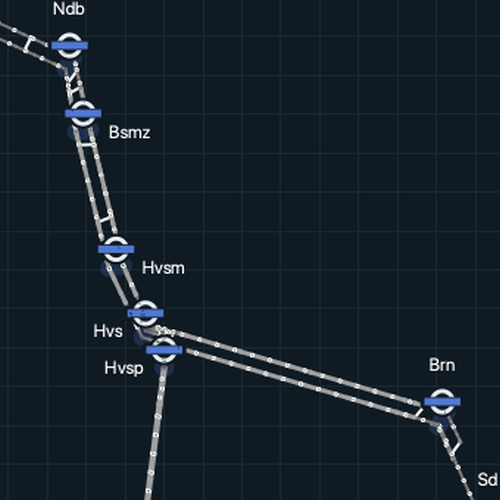
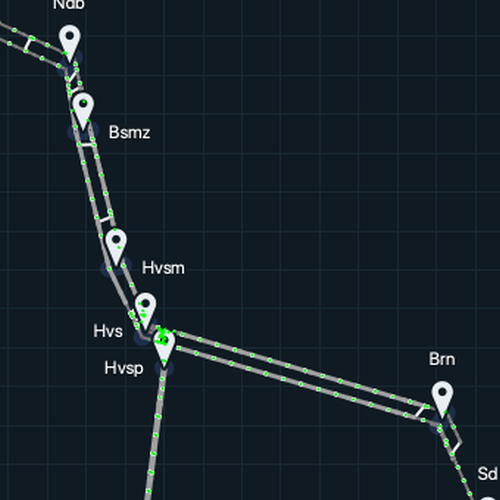
Retake the renderer comparison frames from the current code

diff --git a/docs/architecture/historical-track-comparison.md b/docs/architecture/historical-track-comparison.md
@@ -209,7 +209,7 @@ show the same extent. The zoom given for a pair is the zoom of the window before
 the crop, so a frame can show the network larger or smaller than the window did,
 and the sizes in a Fit frame and in a detail frame are not in the ratio of their
 zooms. The reference builds are `472d0b5` and, for the Netherlands, `f138134`.
-The current build is main `bf005f2b`. Both builds zoom by 1.15 per click. The
+The current build is main `3bdaa4919`. Both builds zoom by 1.15 per click. The
 zoom label of the current build is the ratio to its own Fit scale. The reference
 build has no zoom label, so its zoom is the number of zoom-in clicks from Fit.
 The reference build fits the scene rectangle and the current build fits the
@@ -228,17 +228,17 @@ them.
 
 ![Paimpol at Fit in the current build](images/paimpol-fit-current.png)
 
-Reference build `472d0b5` above, current build main `bf005f2b` below. Scene
+Reference build `472d0b5` above, current build main `3bdaa4919` below. Scene
 Paimpol at Fit in both builds, so the whole line shows, with Guingamp at the left
 end and Paimpol at the right end. The positions of the ten stations agree within
 about 0.5 percent of the frame width.
 
-In the symbols, the current frame draws a roundel, a ring with a blue bar, above
-the line on the faint blue area of each station, and a readable name under the
-line. It hides the name of Pontrieaux_Halte where it overlaps the name of
-Pontrieaux. The reference frame has no station mark and names too small to read.
-In the geometry, the siding at Pontrieaux shows in the current frame only, as a
-short second row above the line.
+In the symbols, the current frame draws a light map pin with a dark dot above
+the line at each station, its tip on the faint blue area of the station, and a
+readable name under the line. It hides the name of Pontrieaux_Halte where it
+overlaps the name of Pontrieaux. The reference frame has no station mark and
+names too small to read. In the geometry, the siding at Pontrieaux shows in the
+current frame only, as a short second row above the line.
 
 ### Paimpol at detail
 
@@ -246,22 +246,22 @@ short second row above the line.
 
 ![Paimpol at detail in the current build](images/paimpol-detail-current.png)
 
-Reference build `472d0b5` above, current build main `bf005f2b` below. Scene
+Reference build `472d0b5` above, current build main `3bdaa4919` below. Scene
 Paimpol, 16 zoom-in clicks from Fit (zoom label 9.4x in the current build), then
 10 arrow-key presses in both builds. Pontrieaux_Halte and Pontrieaux stand at the
 same x in both frames, and the line, its signals and its node dots line up within
 1 px.
 
-In the symbols, the current frame draws a light dot with a dark halo on each
-station square. The dot covers the square, and at Pontrieaux also the post of the
-signal beside it, so only the green heads of that signal show. The current frame
-writes each name under its dot, larger because the minimum name size applies at
-this zoom, and writes Pontrieaux_Halte without the space after the underscore
-that the reference frame draws. In the geometry, the current build draws the
-siding at Pontrieaux above the line, beyond the top edge of this frame: only the
-foot of its left diagonal connection shows. The reference frame draws three
-signals on the line right of that connection, at the x positions of the signals
-of the siding.
+In the symbols, the current frame draws each signal head as a green disc, larger
+than the heads of the reference frame, and a white platform bar above each
+station square. At Pontrieaux the faint blue area of the station runs from the
+top edge to just below the line. The current frame writes each name under its
+square, larger because the minimum name size applies at this zoom, and writes
+Pontrieaux_Halte without the space after the underscore that the reference frame
+draws. In the geometry, the current build draws the siding at Pontrieaux above
+the line, beyond the top edge of this frame: only the foot of its left diagonal
+connection shows. The reference frame draws three signals on the line right of
+that connection, at the x positions of the signals of the siding.
 
 ### Copenhagen junction
 
@@ -269,20 +269,22 @@ of the siding.
 
 ![Copenhagen junction in the current build](images/copenhagen-junction-current.png)
 
-Reference build `472d0b5` above, current build main `bf005f2b` below. Scene
+Reference build `472d0b5` above, current build main `3bdaa4919` below. Scene
 Copenhagen, 22 zoom-in clicks from Fit (zoom label 21.6x in the current build),
 then 10 presses of the right arrow key in both builds and, in the current build,
 6 of the down arrow key, because its two rows start lower in the window.
 Carlsberg, Dybbolsbro, Kobenhavn H and Vesterport stand at the same x in both
 frames, within 3 px.
 
-In the symbols, the current frame draws a light dot with a dark halo on each
-station square of both rows. The names of these stations stand under their
-lowest square, below the frame, so the current frame shows no name. In the
-geometry, the reference frame draws one line, with signals at more x positions
-than either current row, where the current frame draws two parallel rows joined
-by crossovers. The signals of both current rows stand at x positions where the
-reference line has a signal.
+In the symbols, the current frame draws a white platform bar above each station
+square of both rows, and the faint blue area of each station, which covers the
+squares and bars of both rows and, at Dybbolsbro and Kobenhavn H, runs on below
+the frame. The names of these stations stand under their lowest square, below
+the frame, so the current frame shows no name. In the geometry, the reference
+frame draws one line, with signals at more x positions than either current row,
+where the current frame draws two parallel rows joined by crossovers. The
+signals of both current rows stand at x positions where the reference line
+has a signal.
 
 ### Netherlands stretch
 
@@ -290,16 +292,17 @@ reference line has a signal.
 
 ![Netherlands stretch in the current build](images/netherlands-stretch-current.png)
 
-Reference build `f138134` above, current build main `bf005f2b` below. Scene
+Reference build `f138134` above, current build main `3bdaa4919` below. Scene
 Netherlands, 6 zoom-in clicks from Fit (zoom label 2.3x in the current build).
 The landmarks are the track corner at Ndb, the corner between Hvsm and Hvsp and
 the corner at Brn, which agree within about 20 px in the 500 px frames. This is
 the loosest match of the pairs, because the current case has doubled tracks.
 
-In the symbols, the current frame draws a roundel, a ring with a blue bar, on the
-tracks at each station, with the name off the tracks: above the mark at Ndb and
-Brn, and beside it at Bsmz, Hvsm, Hvs and Hvsp. The name of Sd shows in the
-lower right corner, with its mark below the frame. The mainline track is grey
+In the symbols, the current frame draws a light map pin with a dark dot at each
+station, its tip on the tracks, with the name off the tracks: above the pin at
+Brn and at Ndb, where the top edge cuts off the top of the letters, and beside
+it at Bsmz, Hvsm, Hvs and Hvsp. The name of Sd shows in the lower right corner,
+with only the top of its pin at the bottom edge. The mainline track is grey
 (160,160,160), and the reference frame has no readable station label. In the
 geometry, the current frame draws doubled tracks and crossovers where the
 reference frame draws a single line, with one short extra segment at the corner
@@ -314,22 +317,23 @@ shown.
 
 ![Assignment corridor at detail in the current build](images/assignment-detail-current.png)
 
-Current build main `bf005f2b`, scene Assignment_Gvc_Gdg_Ut. The first frame is
-at Fit with the stations Gvc, Gdg and Ut, each a roundel, a ring with a blue bar,
+Current build main `3bdaa4919`, scene Assignment_Gvc_Gdg_Ut. The first frame is
+at Fit with the stations Gvc, Gdg and Ut, each a light map pin with a dark dot
 above the line with its name under it, and the two parallel mainline tracks of
 the corridor, grey (160,160,160), read as one band. The second frame is 10
 zoom-in clicks from Fit (zoom label 4x), around Gdg, and shows the two tracks
-apart, with a signal on each track at regular intervals. The tracks are 9 px
-apart there, less than the 12 px at which the dots replace the roundel, so Gdg
-keeps its roundel above the upper track and its name under the lower one.
+apart, with a signal on each track at regular intervals. The tracks are about
+8 px apart there, less than the 12 px at which the station squares and platform
+bars replace the pin, so Gdg keeps its pin above the upper track and its name
+under the lower one.
 
 ### What the captures show and do not show
 
 - The reference frames show the station names and no station mark, so the
-  roundels and dots of the current frames have no counterpart in them. At Fit
-  the names in the reference frames are too small to read, where the current
-  build keeps the frame of the station mark at least 24 px and the name at least
-  12 px high.
+  pins, platform bars and station areas of the current frames have no
+  counterpart in them. At Fit the names in the reference frames are too small
+  to read, where the current build keeps the frame of the station mark at least
+  24 px and the name at least 12 px high.
 - The names are larger in the current Paimpol detail frame than in the reference
   frame at the same extent. The current build draws a name at least 12 px high.
 - The current frames have the `#101a22` background and its grid, the reference
